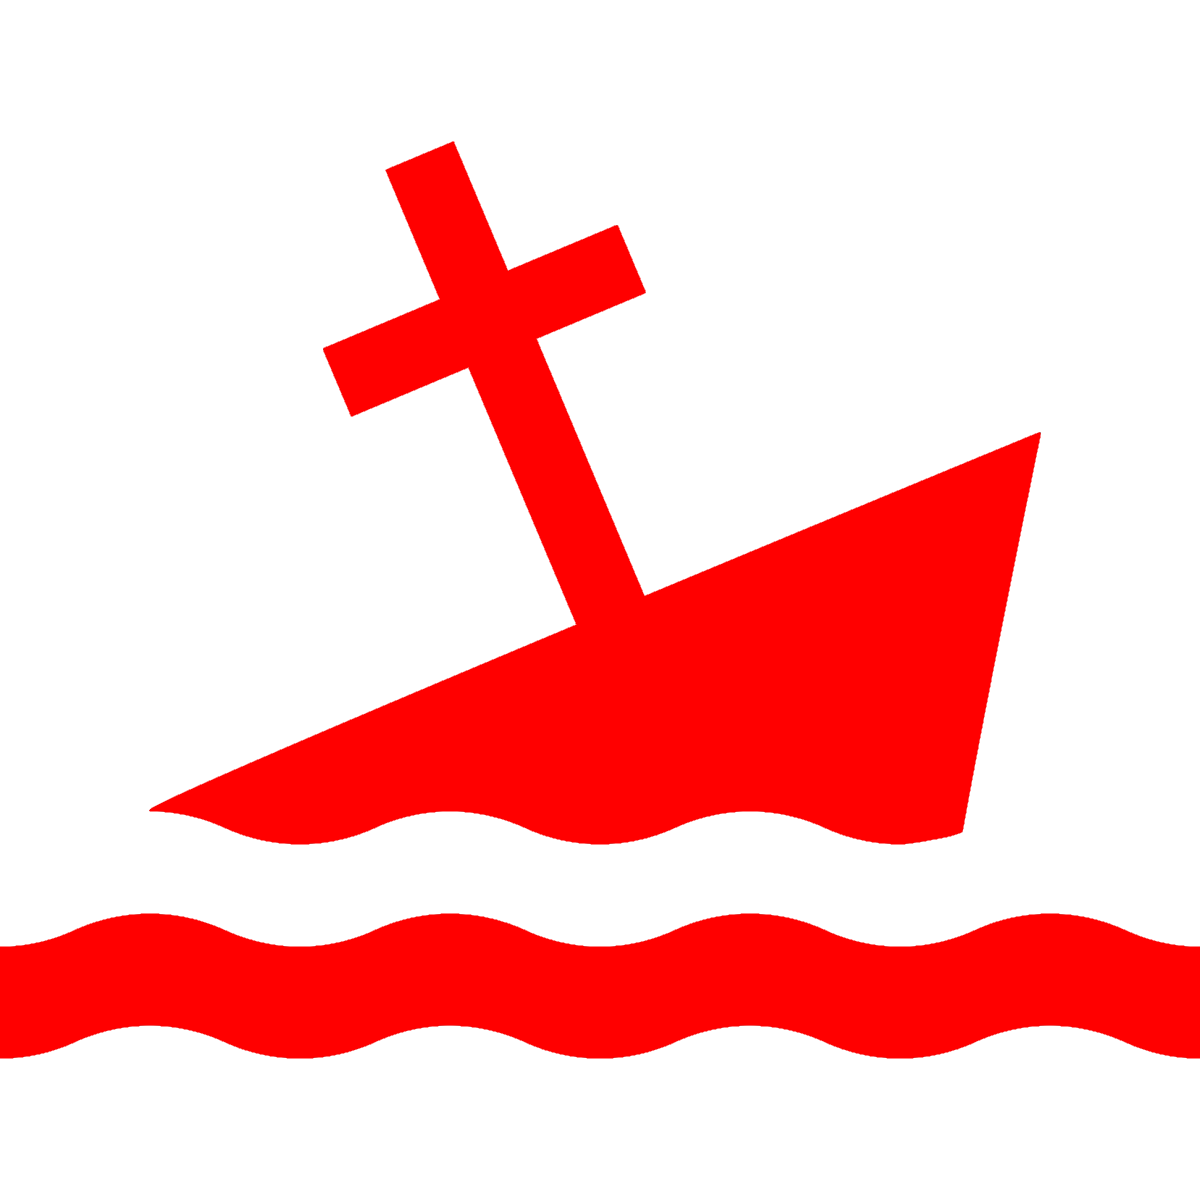
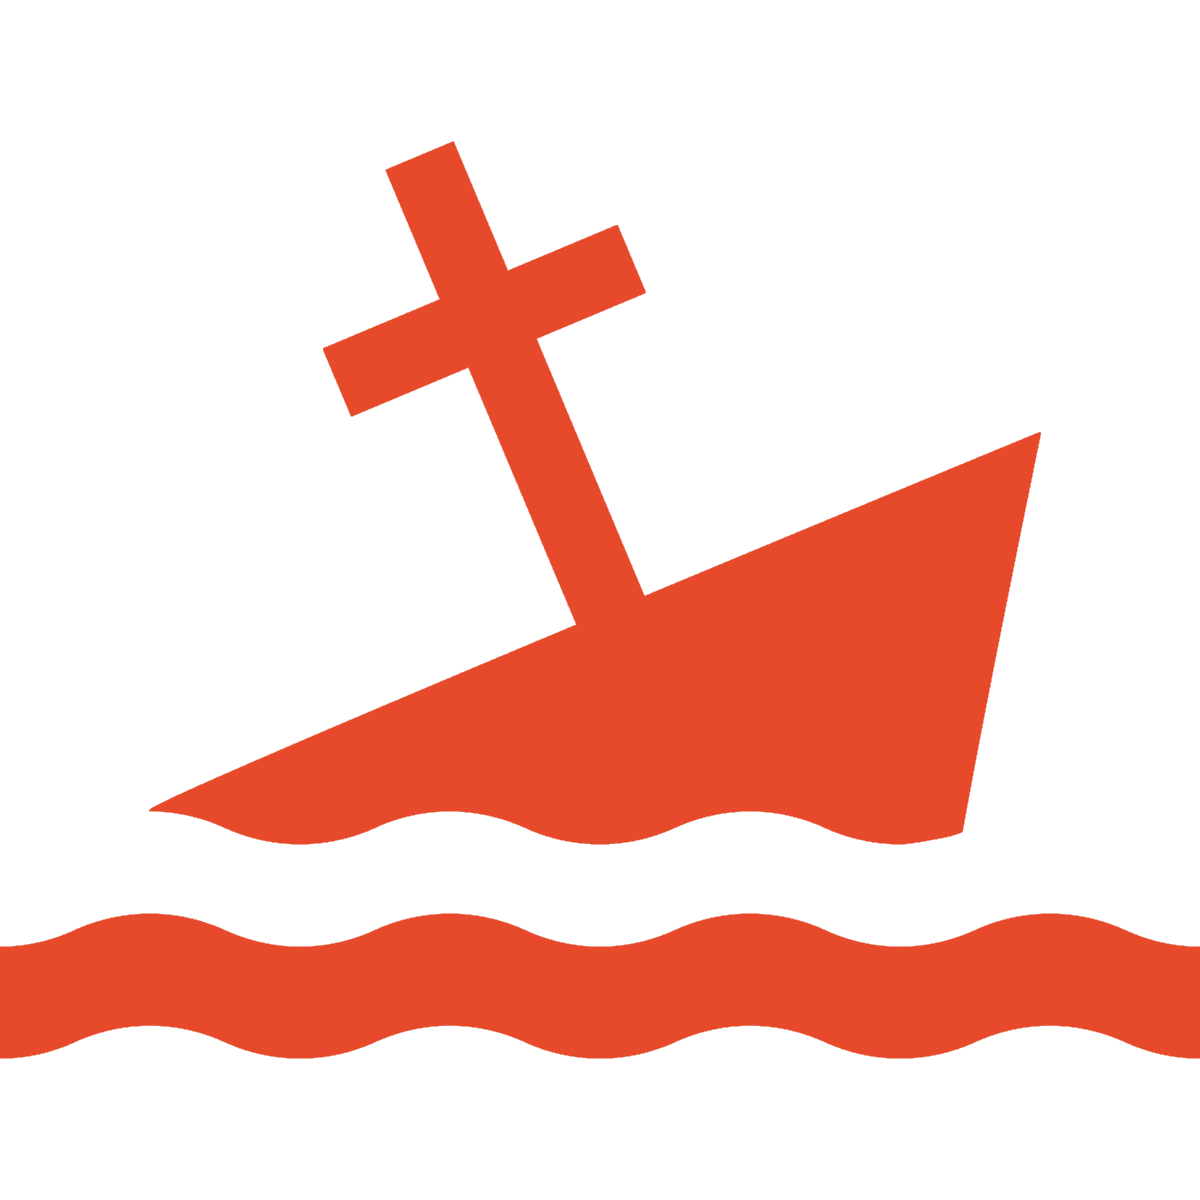
viewmodel: constatns in separate class

Changed region(s): [[0.1233, 0.1233, 0.8633, 0.7092], [0.0, 0.74, 1.0, 0.8942]]

diff --git a/src/com/vztekoverflow/lospiratos/view/stages/common.css b/src/com/vztekoverflow/lospiratos/view/stages/common.css
@@ -19,6 +19,7 @@
 }
 
 .hex-tile.Shipwreck {
+    -fx-fill: rgba(255, 255, 0, 1)
 }
 
 .hex-tile.Port {

diff --git a/src/com/vztekoverflow/lospiratos/viewmodel/GameConstants.java b/src/com/vztekoverflow/lospiratos/viewmodel/GameConstants.java
@@ -1,0 +1,49 @@
+package com.vztekoverflow.lospiratos.viewmodel;
+
+public class GameConstants {
+
+    //region general:
+    public static final ResourceReadOnly TEAM_INITIAL_RESOURCE = new ResourceReadOnly(500,10,10,10,0,10);
+
+    //endregion
+    //region ships:
+
+    public static final int BASIC_SHIP_WEIGHT = 10000;
+
+    //region ship attacks:
+    public static final double HEAVY_BALL_DAMAGE_COEFFICIENT = 1.5;
+    public static final int FRONTAL_ASSAULT_BONUS_DAMAGE_FRIGATE = 5;
+    public static final int FRONTAL_ASSAULT_BONUS_DAMAGE_GALLEON = 10;
+    public static final int FRONTAL_ASSAULT_BASIC_DAMAGE = 10;
+    public static final int FRONTAL_ASSAULT_SPEED_BONUS_DAMAGE = 5;
+    public static final int FRONTAL_ASSAULT_BASIC_SELF_DAMAGE = 5;
+    public static final int MORTAR_DAMAGE = 10;
+
+    //endregion ship attacks
+    //region transactions:
+    /**
+     * Purchase cost (in money) is determined as scalar product of purchase commodities and this. Neutral coefficient is 1.
+     */
+    public static final ResourceReadOnly PURCHASE_COEFFICIENTS = new ResourceReadOnly(1, 2, 2, 2, 0, 2);
+    /**
+     * Sell gain (in money) is determined as scalar product of sold commodities and this. Neutral coefficient is 1.
+     */
+    public static final ResourceReadOnly SELL_COEFFICIENTS = new ResourceReadOnly(1, 2, 2, 2, 0, 2);
+    public static final double REPAIR_ENHANCEMENT_COST_COEFFICIENT = 0.1;
+    //endregion transactions
+
+    //endregion
+    public static final int COLLISION_DAMAGE = FRONTAL_ASSAULT_BASIC_SELF_DAMAGE;
+
+    //enhancement and ship costs are defined in respective files
+    //enhancement and ship bonus values are defined in respective files
+
+    //game board:
+
+    public static final ResourceReadOnly PLANTATION_GENERAL_CAPACITY = new ResourceReadOnly(100, 0, 0, 0, 0, 0);
+    public static final ResourceReadOnly PLANTATION_GENERAL_INCREASE = new ResourceReadOnly(30, 0, 0, 0, 0, 0);
+    public static final ResourceReadOnly PLANTATION_EXTRA_CAPACITY = PLANTATION_GENERAL_CAPACITY.times(2);
+    public static final ResourceReadOnly PLANTATION_EXTRA_INCREASE = PLANTATION_GENERAL_INCREASE.times(2);
+
+    //endregion
+}

diff --git a/src/com/vztekoverflow/lospiratos/viewmodel/actions/attacks/FrontalAssault.java b/src/com/vztekoverflow/lospiratos/viewmodel/actions/attacks/FrontalAssault.java
@@ -8,11 +8,11 @@ import com.vztekoverflow.lospiratos.viewmodel.actions.Attack;
 import com.vztekoverflow.lospiratos.viewmodel.actions.maneuvers.MoveForward;
 import com.vztekoverflow.lospiratos.viewmodel.shipEntitites.enhancements.Ram;
 
-public class FrontalAssault extends Attack {
+import static com.vztekoverflow.lospiratos.viewmodel.GameConstants.FRONTAL_ASSAULT_BASIC_DAMAGE;
+import static com.vztekoverflow.lospiratos.viewmodel.GameConstants.FRONTAL_ASSAULT_BASIC_SELF_DAMAGE;
+import static com.vztekoverflow.lospiratos.viewmodel.GameConstants.FRONTAL_ASSAULT_SPEED_BONUS_DAMAGE;
 
-    public static final int FrontalAssaultBasicDamage = 10;
-    public static final int FrontalAssaultSpeedBonusDamage = 5;
-    public static final int FrontalAssaultBasicSelfDamage = 5;
+public class FrontalAssault extends Attack {
 
     @Override
     protected boolean recomputeVisible() {
@@ -26,8 +26,8 @@ public class FrontalAssault extends Attack {
 
     @Override
     public void performOnShipInternal() {
-        int damage = FrontalAssaultBasicDamage;
-        int selfDamage = FrontalAssaultBasicSelfDamage;
+        int damage = FRONTAL_ASSAULT_BASIC_DAMAGE;
+        int selfDamage = FRONTAL_ASSAULT_BASIC_SELF_DAMAGE;
         Position p = getRelatedShip().getPosition().createCopy();
         p.moveForward();
 
@@ -46,7 +46,7 @@ public class FrontalAssault extends Attack {
             lastAction = a;
         }
         if (lastAction instanceof MoveForward) {
-            damage += FrontalAssaultSpeedBonusDamage;
+            damage += FRONTAL_ASSAULT_SPEED_BONUS_DAMAGE;
         }
 
         if (getRelatedShip().hasActiveEnhancement(Ram.class)) {

diff --git a/src/com/vztekoverflow/lospiratos/viewmodel/shipEntitites/enhancements/Ram.java b/src/com/vztekoverflow/lospiratos/viewmodel/shipEntitites/enhancements/Ram.java
@@ -9,6 +9,9 @@ import com.vztekoverflow.lospiratos.viewmodel.shipEntitites.ships.Frigate;
 import com.vztekoverflow.lospiratos.viewmodel.shipEntitites.ships.Galleon;
 import com.vztekoverflow.lospiratos.viewmodel.shipEntitites.ships.Schooner;
 
+import static com.vztekoverflow.lospiratos.viewmodel.GameConstants.FRONTAL_ASSAULT_BONUS_DAMAGE_FRIGATE;
+import static com.vztekoverflow.lospiratos.viewmodel.GameConstants.FRONTAL_ASSAULT_BONUS_DAMAGE_GALLEON;
+
 public final class Ram extends ShipEnhancement {
 
     @Override
@@ -43,9 +46,9 @@ public final class Ram extends ShipEnhancement {
         } else if (ship.getShipType() instanceof Brig) {
             ship.removeEnhancement(this.getClass());
         } else if (ship.getShipType() instanceof Frigate) {
-            frontalAssaultBonusDamage = frontalAssaultBonusDamageFrigate;
+            frontalAssaultBonusDamage = FRONTAL_ASSAULT_BONUS_DAMAGE_FRIGATE;
         } else if (ship.getShipType() instanceof Galleon) {
-            frontalAssaultBonusDamage = frontalAssaultBonusDamageGalleon;
+            frontalAssaultBonusDamage = FRONTAL_ASSAULT_BONUS_DAMAGE_GALLEON;
         } else {
             Warnings.makeStrongWarning(toString() + "onShipTypeJustChanged()", "unknown ship type: " + ship.getShipType());
         }
@@ -57,8 +60,7 @@ public final class Ram extends ShipEnhancement {
         recompute();
     }
 
-    private static final int frontalAssaultBonusDamageFrigate = 5;
-    private static final int frontalAssaultBonusDamageGalleon = 10;
+
 
     private int frontalAssaultBonusDamage = 0;
 

diff --git a/src/com/vztekoverflow/lospiratos/viewmodel/shipEntitites/ships/Frigate.java b/src/com/vztekoverflow/lospiratos/viewmodel/shipEntitites/ships/Frigate.java
@@ -3,6 +3,8 @@ package com.vztekoverflow.lospiratos.viewmodel.shipEntitites.ships;
 import com.vztekoverflow.lospiratos.viewmodel.ResourceReadOnly;
 import com.vztekoverflow.lospiratos.viewmodel.shipEntitites.ShipType;
 
+import static com.vztekoverflow.lospiratos.viewmodel.GameConstants.BASIC_SHIP_WEIGHT;
+
 public class Frigate extends ShipType {
     @Override
     public int getBonusMaxHP() {
@@ -31,11 +33,11 @@ public class Frigate extends ShipType {
 
     @Override
     public int getWeight() {
-        return ShipType.BASIC_SHIP_WEIGHT * 3;
+        return BASIC_SHIP_WEIGHT * 3;
     }
 
     public static ResourceReadOnly getCost() {
-        return new ResourceReadOnly();
+        return ResourceReadOnly.MOCK_VALUE;
     }
 
     @Override
@@ -50,12 +52,12 @@ public class Frigate extends ShipType {
 
     @Override
     public ResourceReadOnly getBasicRepairCost() {
-        return ResourceReadOnly.MOCK_VALUE;
+        return ResourceReadOnly.MOCK_VALUE.times(1/10);
     }
 
     @Override
     public ResourceReadOnly getUpgradeCost() {
-        return ResourceReadOnly.MOCK_VALUE;
+        return ResourceReadOnly.MOCK_VALUE.times(1/2);
     }
 
 }

diff --git a/src/com/vztekoverflow/lospiratos/viewmodel/actions/transactions/SellCommodity.java b/src/com/vztekoverflow/lospiratos/viewmodel/actions/transactions/SellCommodity.java
@@ -7,9 +7,9 @@ import com.vztekoverflow.lospiratos.viewmodel.actions.Action;
 import javafx.beans.binding.Bindings;
 import javafx.beans.binding.BooleanExpression;
 
-public class SellCommodity extends CommodityTransaction {
+import static com.vztekoverflow.lospiratos.viewmodel.GameConstants.SELL_COEFFICIENTS;
 
-    static final ResourceReadOnly sellCoefficients = new ResourceReadOnly(1, 2, 2, 2, 2, 2);
+public class SellCommodity extends CommodityTransaction {
 
     @Override
     protected Action createCopyAndResetThis() {
@@ -34,7 +34,7 @@ public class SellCommodity extends CommodityTransaction {
     protected void recomputeCost() {
         cost.clear();
         if (getCommodities() != null){
-            cost.setAll( ResourceReadOnly.fromMoney(getCommodities().scalarProduct(sellCoefficients) * -1));
+            cost.setAll( ResourceReadOnly.fromMoney(getCommodities().scalarProduct(SELL_COEFFICIENTS) * -1));
             //set negative value, because this cost is actually a gain (we are selling something)
         }
     }

diff --git a/src/com/vztekoverflow/lospiratos/viewmodel/actions/transactions/BuyCommodity.java b/src/com/vztekoverflow/lospiratos/viewmodel/actions/transactions/BuyCommodity.java
@@ -7,6 +7,8 @@ import com.vztekoverflow.lospiratos.viewmodel.actions.Action;
 import javafx.beans.binding.Bindings;
 import javafx.beans.binding.BooleanExpression;
 
+import static com.vztekoverflow.lospiratos.viewmodel.GameConstants.PURCHASE_COEFFICIENTS;
+
 public class BuyCommodity extends CommodityTransaction {
 
     @Override
@@ -32,7 +34,7 @@ public class BuyCommodity extends CommodityTransaction {
     protected void recomputeCost() {
         if (getCommodities() == null) cost.clear();
         else
-            cost.setAll(ResourceReadOnly.fromMoney(getCommodities().scalarProduct(purchaseCoefficients)));
+            cost.setAll(ResourceReadOnly.fromMoney(getCommodities().scalarProduct(PURCHASE_COEFFICIENTS)));
     }
 
     @Override
@@ -47,6 +49,4 @@ public class BuyCommodity extends CommodityTransaction {
                 , getCommodities(), relatedShipProperty());
     }
 
-    //todo opravdickou hodnotu
-    static final ResourceReadOnly purchaseCoefficients = new ResourceReadOnly(1, 2, 2, 2, 2, 2);
 }

diff --git a/src/com/vztekoverflow/lospiratos/viewmodel/actions/transactions/RepairEnhancement.java b/src/com/vztekoverflow/lospiratos/viewmodel/actions/transactions/RepairEnhancement.java
@@ -8,9 +8,11 @@ import javafx.beans.binding.Bindings;
 import javafx.beans.binding.BooleanExpression;
 import javafx.beans.value.ObservableValue;
 
+import static com.vztekoverflow.lospiratos.viewmodel.GameConstants.REPAIR_ENHANCEMENT_COST_COEFFICIENT;
+
 public class RepairEnhancement extends EnhancementAbstractTransaction {
 
-    static final double repairCostCoefficient = 0.1;
+
 
     @Override
     protected Action createCopyAndResetThis() {
@@ -56,7 +58,7 @@ public class RepairEnhancement extends EnhancementAbstractTransaction {
         if(isSatisfied()){
             ShipEnhancement e = EnhancementsCatalog.createInstance(getEnhancement());
             if(e != null)
-                cost.setAll(e.getCostUniversal().times(repairCostCoefficient));
+                cost.setAll(e.getCostUniversal().times(REPAIR_ENHANCEMENT_COST_COEFFICIENT));
         }
     }
 

diff --git a/src/com/vztekoverflow/lospiratos/viewmodel/boardTiles/Plantation.java b/src/com/vztekoverflow/lospiratos/viewmodel/boardTiles/Plantation.java
@@ -3,13 +3,13 @@ package com.vztekoverflow.lospiratos.viewmodel.boardTiles;
 import com.vztekoverflow.lospiratos.util.AxialCoordinate;
 import com.vztekoverflow.lospiratos.viewmodel.*;
 
+import static com.vztekoverflow.lospiratos.viewmodel.GameConstants.PLANTATION_GENERAL_CAPACITY;
+import static com.vztekoverflow.lospiratos.viewmodel.GameConstants.PLANTATION_GENERAL_INCREASE;
+
 public class Plantation extends BoardTile implements Plunderable {
     public Plantation(AxialCoordinate location, Board b) {
         super(location, b);
     }
-
-    final static ResourceReadOnly PLANTATION_GENERAL_CAPACITY = new ResourceReadOnly(100, 0, 0, 0, 0, 0);
-    final static ResourceReadOnly PLANTATION_GENERAL_INCREASE = new ResourceReadOnly(30, 0, 0, 0, 0, 0);
 
     protected final Resource resource = ResourceReadOnly.MOCK_VALUE.createMutableCopy();
 

diff --git a/src/com/vztekoverflow/lospiratos/viewmodel/shipEntitites/ships/CustomShipType.java b/src/com/vztekoverflow/lospiratos/viewmodel/shipEntitites/ships/CustomShipType.java
@@ -3,6 +3,8 @@ package com.vztekoverflow.lospiratos.viewmodel.shipEntitites.ships;
 import com.vztekoverflow.lospiratos.viewmodel.ResourceReadOnly;
 import com.vztekoverflow.lospiratos.viewmodel.shipEntitites.ShipType;
 
+import static com.vztekoverflow.lospiratos.viewmodel.GameConstants.BASIC_SHIP_WEIGHT;
+
 public class CustomShipType extends ShipType {
     @Override
     public String getČeskéJméno() {
@@ -20,8 +22,11 @@ public class CustomShipType extends ShipType {
 
     @Override
     public int getWeight() {
-        return ShipType.BASIC_SHIP_WEIGHT * 5;
+        return BASIC_SHIP_WEIGHT * 5;
         //todo jak tezka je custom lod?
+        //custom lode neexistuji
+        //nnezlob se na mne, ale na ne
+        //ja za nic nemuzu
     }
 
     @Override

diff --git a/src/com/vztekoverflow/lospiratos/evaluator/GameEvaluator.java b/src/com/vztekoverflow/lospiratos/evaluator/GameEvaluator.java
@@ -15,6 +15,8 @@ import java.util.*;
 import java.util.function.Consumer;
 import java.util.stream.Collectors;
 
+import static com.vztekoverflow.lospiratos.viewmodel.GameConstants.COLLISION_DAMAGE;
+
 abstract public class GameEvaluator {
 
     abstract public void evaluateRound(int roundNo);
@@ -142,7 +144,7 @@ class StandardGameEvaluator extends GameEvaluator {
 
     private void damageCollisionAttendees(){
         for(Ship s: collisionAttendees){
-            DamageSufferedResponse response = s.takeDamage(FrontalAssault.FrontalAssaultBasicSelfDamage);
+            DamageSufferedResponse response = s.takeDamage(COLLISION_DAMAGE);
             if(response.equals(DamageSufferedResponse.hasJustBeenDestroyed)){
                 destroyShip(s,null);
             }

diff --git a/src/com/vztekoverflow/lospiratos/viewmodel/boardTiles/PlantationExtra.java b/src/com/vztekoverflow/lospiratos/viewmodel/boardTiles/PlantationExtra.java
@@ -5,9 +5,11 @@ import com.vztekoverflow.lospiratos.viewmodel.Board;
 import com.vztekoverflow.lospiratos.viewmodel.Resource;
 import com.vztekoverflow.lospiratos.viewmodel.ResourceReadOnly;
 
+import static com.vztekoverflow.lospiratos.viewmodel.GameConstants.PLANTATION_EXTRA_CAPACITY;
+import static com.vztekoverflow.lospiratos.viewmodel.GameConstants.PLANTATION_EXTRA_INCREASE;
+
 public class PlantationExtra extends Plantation {
-    static final ResourceReadOnly PLANTATION_EXTRA_CAPACITY = Plantation.PLANTATION_GENERAL_CAPACITY.times(2);
-    static final ResourceReadOnly PLANTATION_EXTRA_INCREASE = Plantation.PLANTATION_GENERAL_INCREASE.times(2);
+
 
     public PlantationExtra(AxialCoordinate location, Board b) {
         super(location, b);
